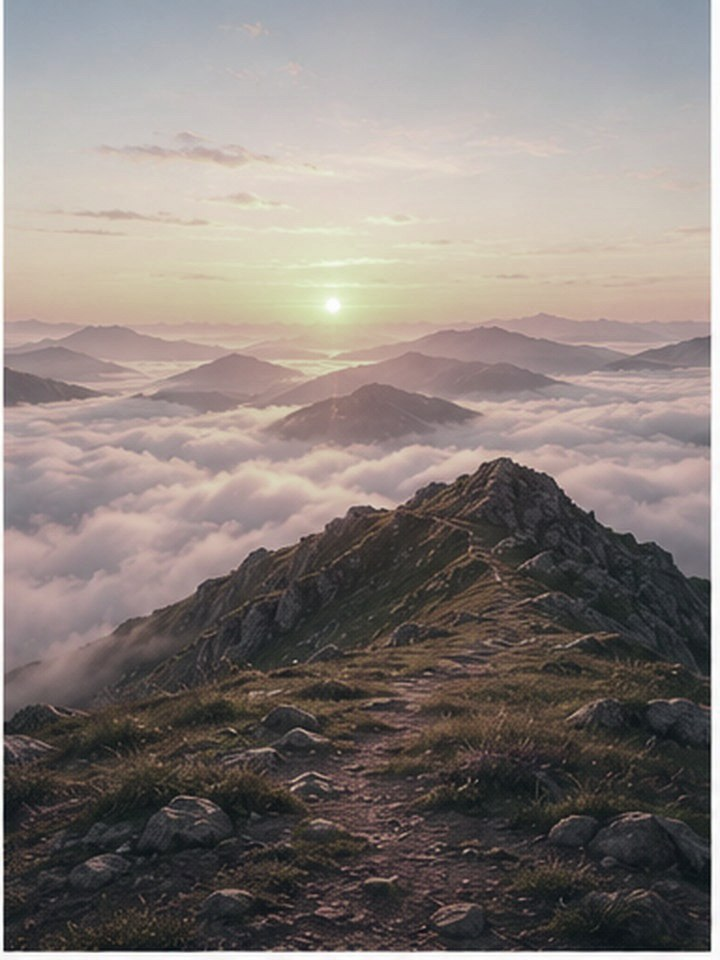
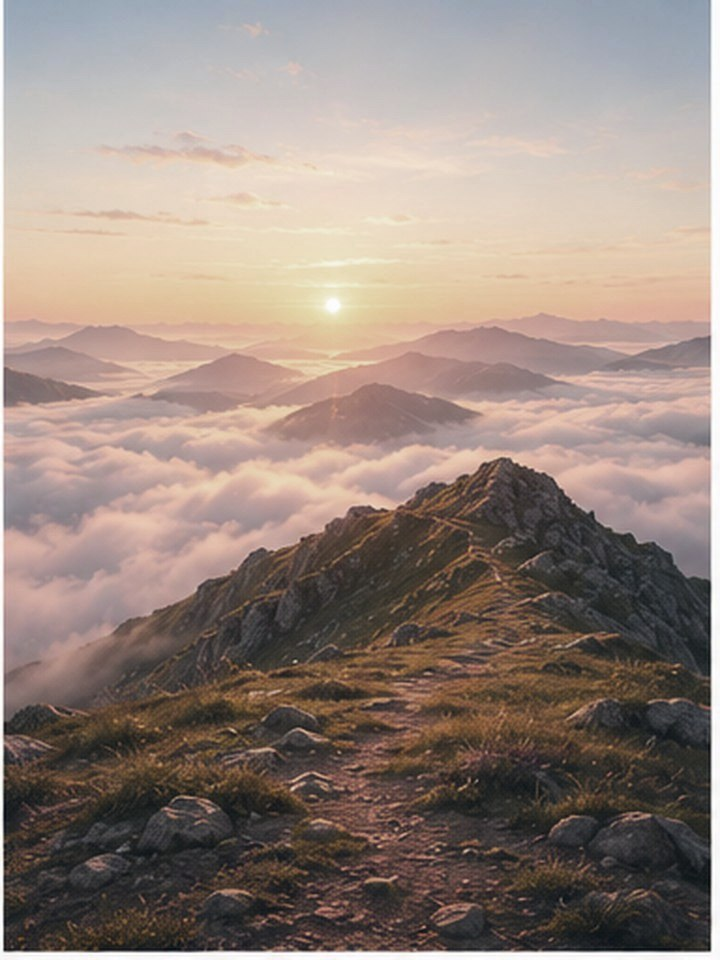
Änderungen vom 20.08.2026, 05:07
Bearbeitet: SPEC.md, bg-bergsee.jpg, bg-bergspitze.jpg, bg-herzraum.jpg, bg-lichtraum.jpg u. a.

diff --git a/index.html b/index.html
@@ -1503,7 +1503,7 @@
   // ueberein, laedt das Handy die Seite einmal ganz frisch nach, mit einer
   // Handynummer in der Adresse, die ein Zwischenspeichern verhindert.
   (function(){
-    var AKTUELLE_VERSION = "2026-08-10.109";
+    var AKTUELLE_VERSION = "2026-08-10.110";
     try {
       var gemerkt = localStorage.getItem("myisland.version");
       if (gemerkt !== AKTUELLE_VERSION){

diff --git a/sw.js b/sw.js
@@ -8,7 +8,7 @@
 //
 // CACHE_NAME bei jeder wichtigen Aenderung mit hochzaehlen (gleiche Idee
 // wie AKTUELLE_VERSION in index.html) - das raeumt alte Speicherstaende auf.
-const CACHE_NAME = "myisland-cache-v100";
+const CACHE_NAME = "myisland-cache-v101";
 const SHELL_FILES = [
   "./",
   "./index.html",

diff --git a/SPEC.md b/SPEC.md
@@ -1217,3 +1217,26 @@ Angewendet auf **alle acht** `bg-*.jpg`, nicht nur die vier Kategoriebilder — 
 **Nicht mehr in Gebrauch, aber aufgehoben:** `kat-blau-nord/sued/ost.jpg` (die drei blauen Meerbilder vom selben Tag) und `kat-*.jpg` (Christines Fotos, seit 15. Aug. ungenutzt). Beide aus `SHELL_FILES` in `sw.js` entfernt, damit der Offline-Speicher nicht unnoetig waechst.
 
 **Lehre fuer das naechste Mal:** Bevor neue Bilder erzeugt werden, pruefen, ob eine Farbkorrektur der vorhandenen reicht. Hier hat sie vollstaendig genuegt — und sie erhaelt die Motivvielfalt, die eine neue Serie erst wieder muehsam herstellen muesste.
+
+
+### Nachgebessert: zu stark entsaettigt (19. Aug. 2026)
+
+Christine hat nach dem Umfaerben ein Bildschirmfoto vom Handy geschickt und gefragt, ob die Farben so stimmen. Nachgemessen — und das Ergebnis war ein anderes als erwartet:
+
+- **Kein neuer Gruenstich.** Die Vermutung, das Umfaerben habe einen Olivton erzeugt, war falsch: Der Gruenueberschuss steckte schon in den Originalen (`bg-lichtraum` +14,5 vorher, +11,5 nachher; `bg-waldlichtung` +9,2 vorher, +3,6 nachher). Das Umfaerben hat ihn sogar **verringert**. Er faellt nur staerker auf, seit das Gold nicht mehr darueberliegt.
+- **Aber: zu dunkel und zu blass geworden.** Die hellen Bereiche fielen von `242/220/169` auf `206/204/178` — die Bilder wirkten flau. Damit lief die Aenderung genau Christines urspruenglicher Kritik zuwider ("zu wenig ins Auge stechend").
+
+Rezept entsprechend nachgezogen (gilt jetzt fuer alle acht `bg-*.jpg`):
+
+| Schritt | erster Anlauf | jetzt |
+|---|---|---|
+| Goldgelb daempfen | 0,38 | **0,27** |
+| Blau zumischen | 0,22 | 0,20 |
+| Schatten Richtung App-Blau | 0,30 | 0,26 |
+| Abdunkeln (Gamma) | 1,10 | **1,02** |
+| Saettigung | — | **1,22** |
+| Olivstich daempfen | — | **0,45** |
+
+Der Saettigungs-Schritt ist noetig, weil das Herausnehmen des Warmanteils zwangslaeufig Farbe mitnimmt — ohne Ausgleich werden die Bilder grau. Der Oliv-Schritt daempft gezielt den Gruenueberschuss (dort, wo Gruen ueber dem Mittel von Rot und Blau liegt), der in den Originalen vom goldenen Licht ueberdeckt war.
+
+**Lehre:** Beim Entfernen eines Farbstichs immer gegenpruefen, was dabei an Helligkeit und Saettigung verlorengeht — sonst loest man ein Farbproblem und schafft ein Flauheitsproblem. Und: erst messen, dann urteilen; der vermutete Gruenstich stammte nicht aus der Bearbeitung.
